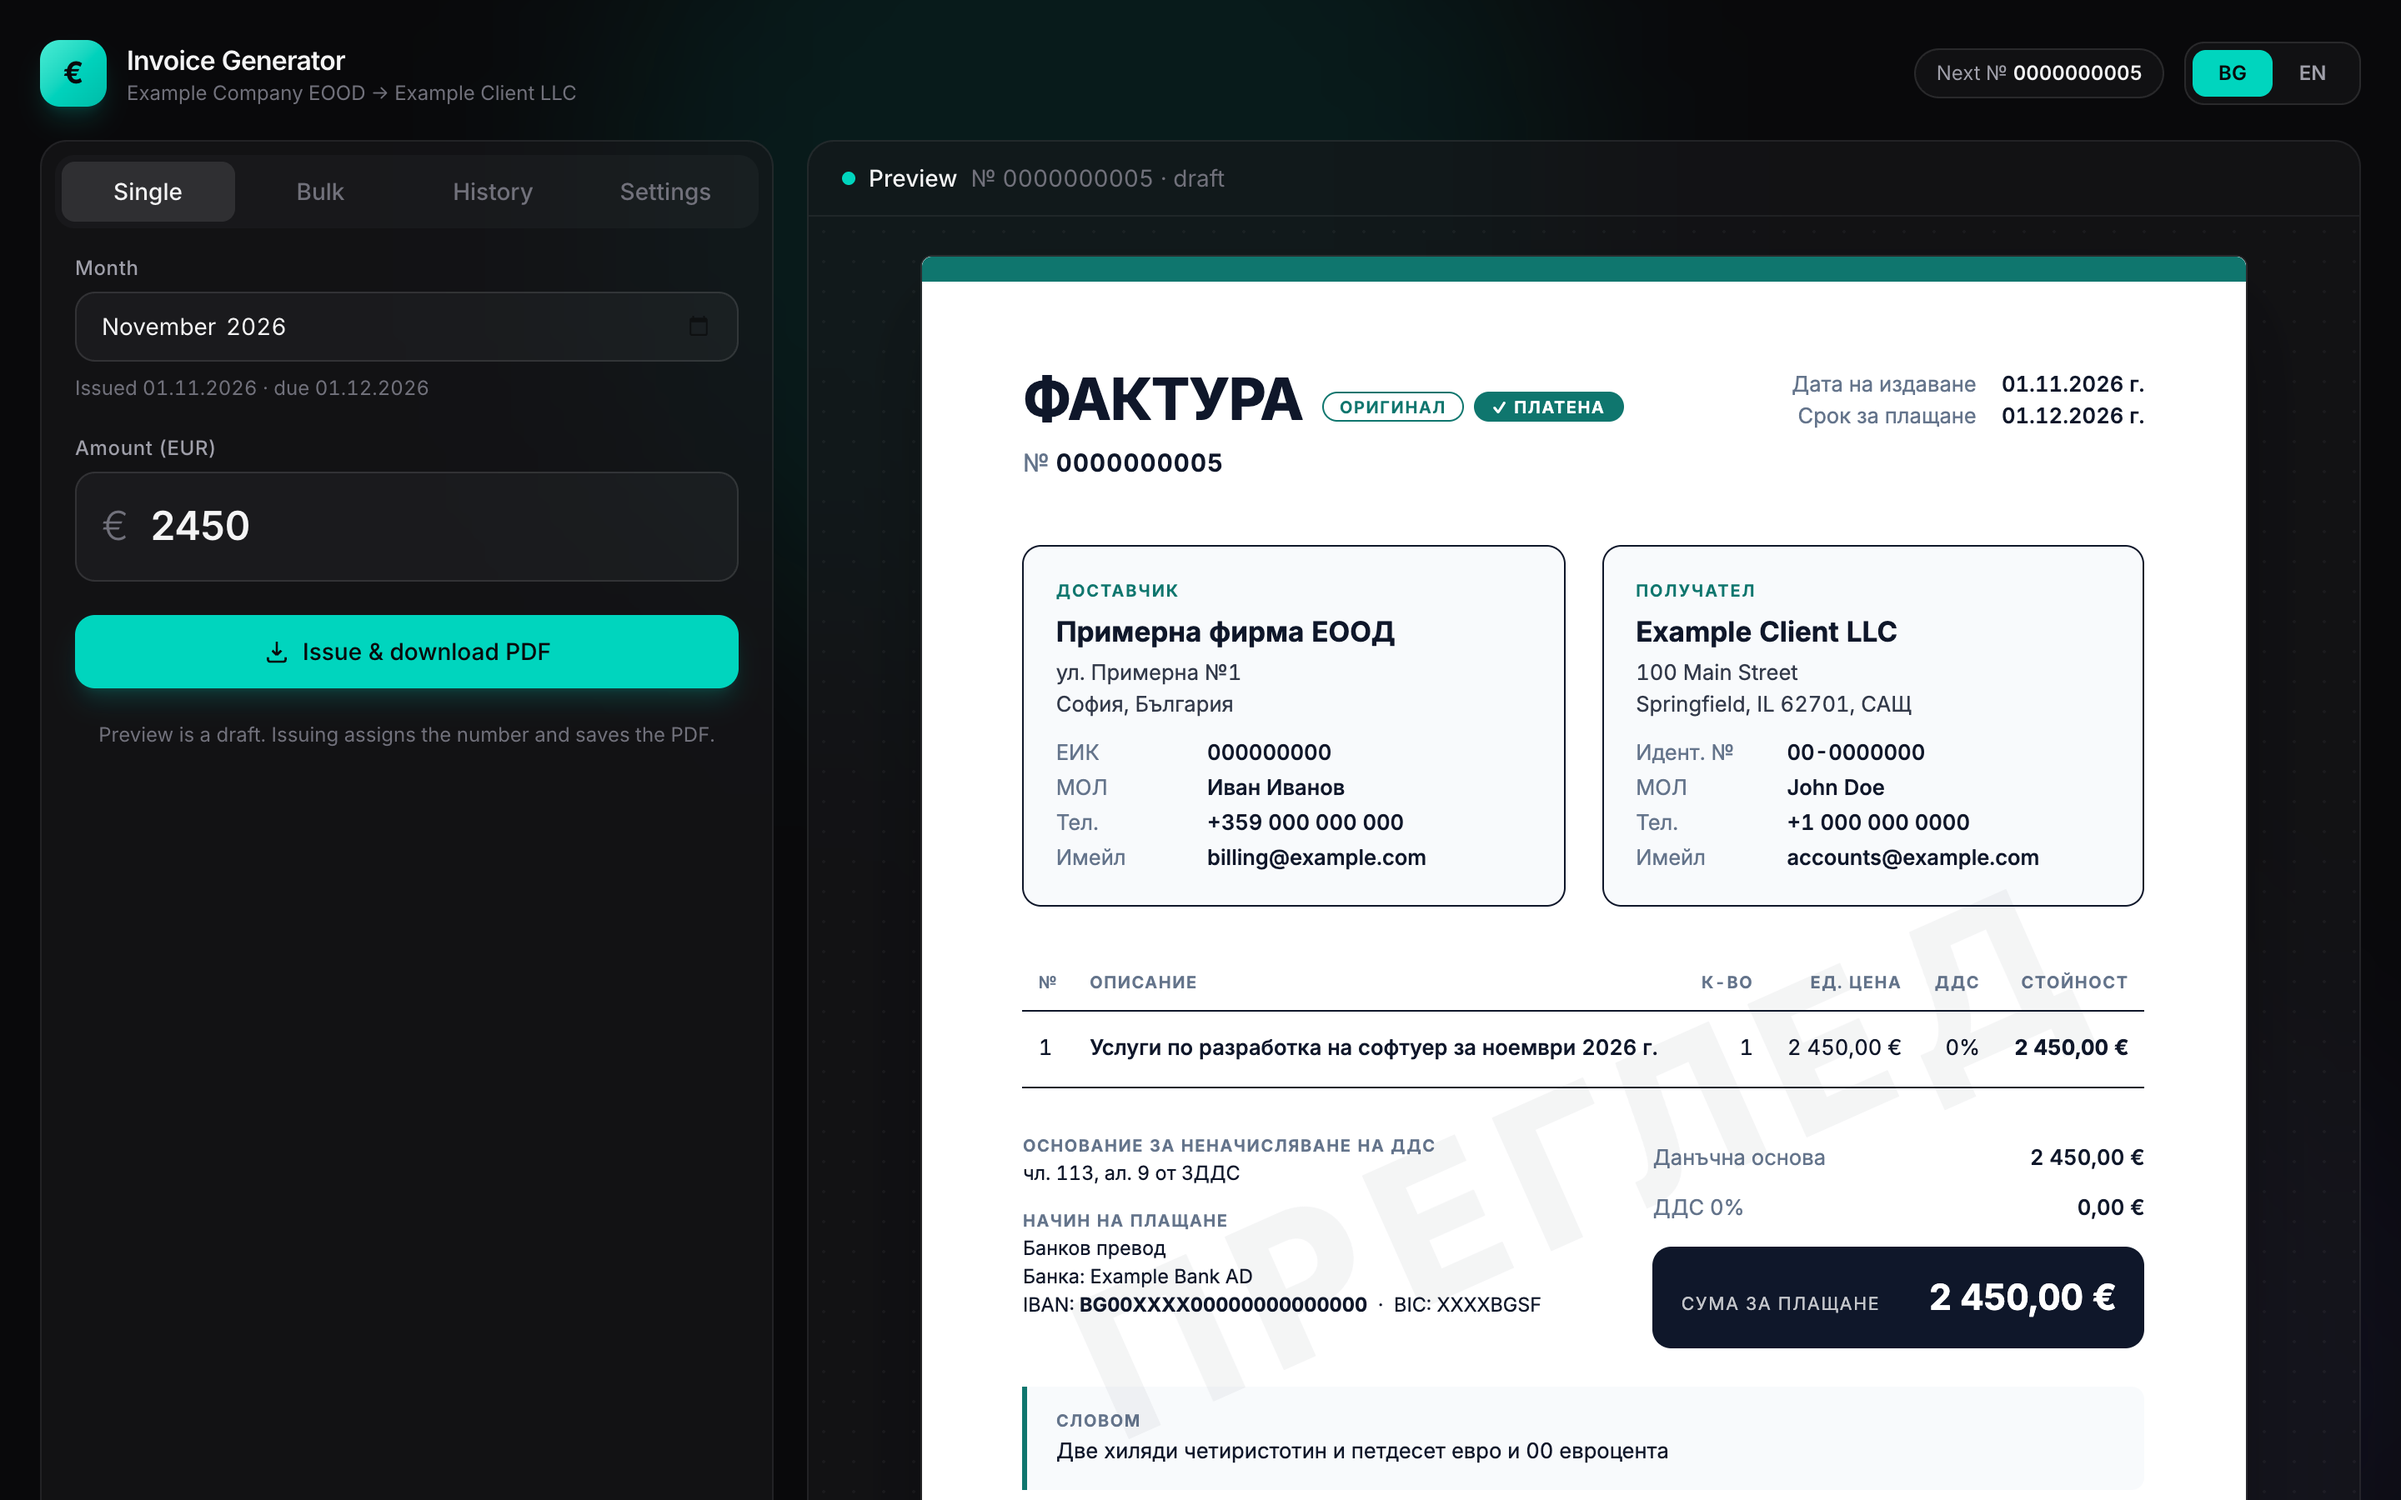
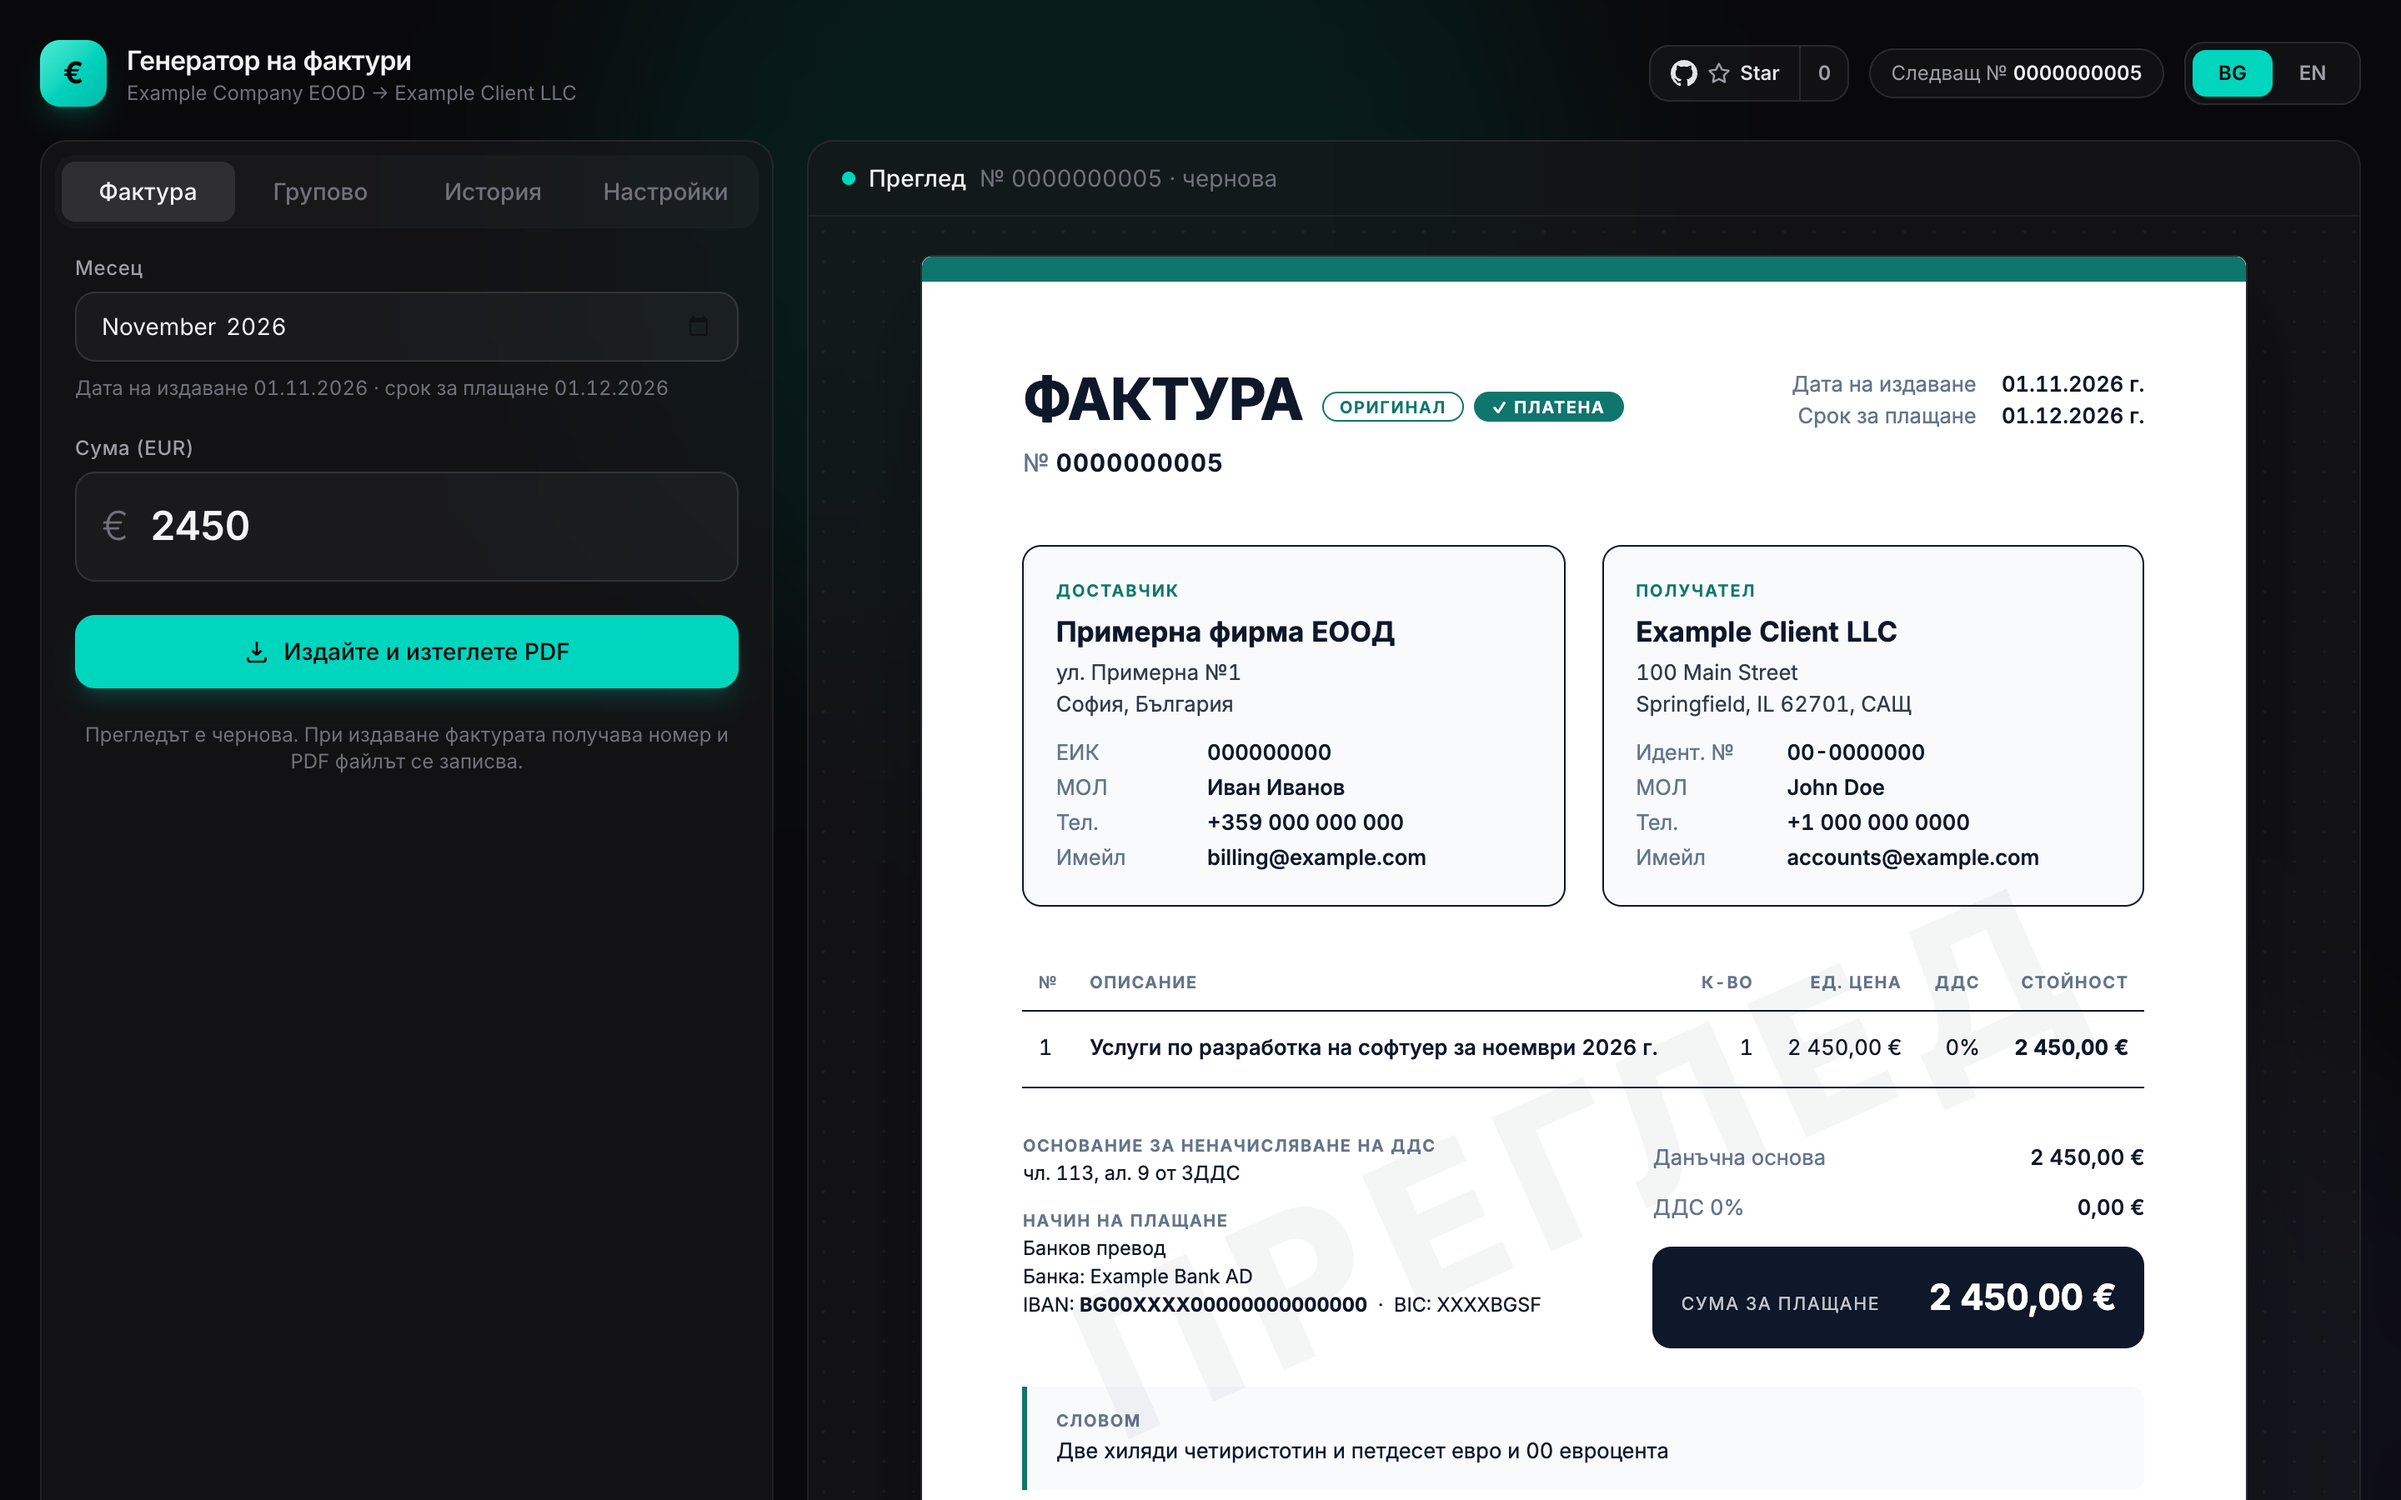
📸 docs: refresh screenshots and add settings view

diff --git a/README.md b/README.md
@@ -8,9 +8,9 @@
 
 ![Единична фактура с преглед на живо](docs/screenshots/single.png)
 
-| Групово издаване | Архив |
-|---|---|
-| ![Групово издаване](docs/screenshots/bulk.png) | ![Архив](docs/screenshots/history.png) |
+| Групово издаване | Архив | Настройки |
+|---|---|---|
+| ![Групово издаване](docs/screenshots/bulk.png) | ![Архив](docs/screenshots/history.png) | ![Настройки](docs/screenshots/settings.png) |
 
 | Фактура (BG) | Фактура (EN) | Цветови теми |
 |---|---|---|
@@ -34,7 +34,7 @@
 
 - Данните (настройки, теми, издадени фактури) се пазят само във Вашия браузър (localStorage). Нищо не се изпраща към сървър.
 - PDF се създава чрез прозореца за печат на браузъра: изберете „Save as PDF“ (Запази като PDF). При групово издаване всички фактури се отпечатват като един PDF файл с по една страница на фактура.
-- Изтриването на данните на сайта изтрива и архива с фактури. Експортирайте редовно резервно копие от **Settings → Backup**.
+- Изтриването на данните на сайта изтрива и архива с фактури. Експортирайте редовно резервно копие от **Настройки → Общи → Резервно копие**.
 
 Локалната версия (по-долу) записва истински PDF файлове в папка, създава ZIP архиви и има команден ред (CLI).
 
@@ -50,7 +50,7 @@ npm install
 npm start
 ```
 
-Отворете http://localhost:4321 и попълнете Вашите данни в раздел **Settings**. Те се записват в `data/settings.json`, който не се качва в Git.
+Отворете http://localhost:4321 и попълнете Вашите данни в раздел **Настройки**. Те се записват в `data/settings.json`, който не се качва в Git.
 
 ## Дати и номерация
 

diff --git a/README.en.md b/README.en.md
@@ -8,9 +8,9 @@ A local invoice generator for Bulgarian companies that bill the same client ever
 
 ![Single invoice with live preview](docs/screenshots/single-en.png)
 
-| Bulk issuing | History |
-|---|---|
-| ![Bulk issuing](docs/screenshots/bulk-en.png) | ![History](docs/screenshots/history-en.png) |
+| Bulk issuing | History | Settings |
+|---|---|---|
+| ![Bulk issuing](docs/screenshots/bulk-en.png) | ![History](docs/screenshots/history-en.png) | ![Settings](docs/screenshots/settings-en.png) |
 
 | Invoice (EN) | Invoice (BG) | Colour themes |
 |---|---|---|
@@ -34,7 +34,7 @@ Screenshots use dummy data. Regenerate them with `npm run screenshots` — the s
 
 - Your data (settings, themes, issued invoices) stays in your browser (localStorage). Nothing is sent to a server.
 - PDFs are created through the browser's print dialog: choose "Save as PDF". Bulk issuing prints all invoices as one PDF, one page per invoice.
-- Clearing site data deletes your invoice history. Export a backup regularly from **Settings → Backup**.
+- Clearing site data deletes your invoice history. Export a backup regularly from **Settings → General → Backup**.
 
 The local version (below) writes real PDF files to a folder, builds ZIP archives and has a CLI.
 
